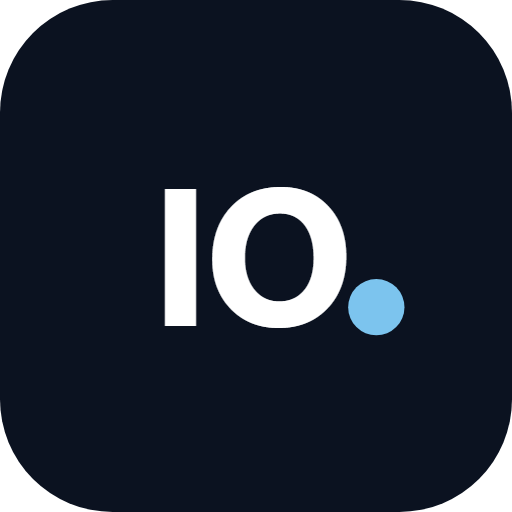
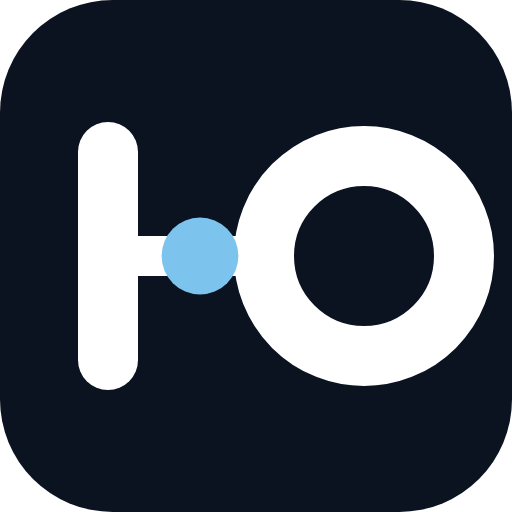
Marca "conector de datos" y revision de interfaz sobre el modo oscuro
- Logo nuevo: barra y anillo arman el monograma IO y leen como dos nodos unidos.
  Aplicado al riel, al ingreso, a los iconos de la PWA y a la portada del manual.
- Bordes y tarjetas con contraste real en oscuro: la profundidad viene de una luz
  en el canto superior, no de la sombra.
- El item activo de la navegacion se distingue: pasa al acento en vez de bg-contraste,
  que quedaba a 1.2 de contraste contra la tarjeta.
- Microcopia: placeholders con elipsis y "responsable" en vez de "Key Account".

Changed region(s): [[0.125, 0.2188, 0.9688, 0.7812]]

diff --git a/presentador/src/components/Shell.tsx b/presentador/src/components/Shell.tsx
@@ -7,6 +7,7 @@ import { nombreCorto, useDemo } from '../state/demo'
 import { useAcademia } from '../state/academia'
 import { useSesion } from '../state/sesion'
 import { Ayuda } from './Ayuda'
+import { Marca } from './Marca'
 import { iniciales, MenuCuenta } from './MenuCuenta'
 import { Sheet } from './Sheet'
 
@@ -48,18 +49,6 @@ const gestionLab: ItemNav[] = [
   { href: '#/asistente', etiqueta: 'Asistente', detalle: 'Preguntale a los datos con IA', Icono: Sparkles, activa: (r) => r.nombre === 'asistente' },
   { href: '#/integraciones', etiqueta: 'API', detalle: 'SAP, Salesforce y webhooks', Icono: Plug, activa: (r) => r.nombre === 'integraciones' },
 ]
-
-function Logo({ size = 30 }: { size?: number }) {
-  return (
-    <svg width={size} height={size} viewBox="0 0 32 32" aria-hidden="true">
-      <rect width="32" height="32" rx="7" fill="#0b1220" />
-      <text x="14.2" y="21.6" textAnchor="middle" fontFamily="var(--font-sans)" fontSize="13.5" fontWeight="700" fill="#fff" letterSpacing="-0.4">
-        IO
-      </text>
-      <circle cx="24.5" cy="20.4" r="2.5" fill="#7cc4ee" />
-    </svg>
-  )
-}
 
 function EstadoConexion() {
   const { online, pendientes } = useDemo()
@@ -165,7 +154,7 @@ export function Shell({ ruta, children }: { ruta: Ruta; children: ReactNode }) {
         className="fixed inset-y-0 left-0 z-40 hidden w-[96px] flex-col items-center border-r border-line bg-surface pt-[calc(14px+env(safe-area-inset-top))] pb-4 md:flex"
       >
         <a href="#/" aria-label="IO-Pharma, inicio" className="press mb-4 shrink-0 rounded-xl p-1.5">
-          <Logo />
+          <Marca size={30} className="text-ink" />
         </a>
         <div className="flex min-h-0 flex-1 flex-col items-center overflow-y-auto">
           {[principales, secundarios].map((grupo, g) => (
@@ -184,7 +173,7 @@ export function Shell({ ruta, children }: { ruta: Ruta; children: ReactNode }) {
                       href={href}
                       aria-current={actual ? 'page' : undefined}
                       className={`press relative flex w-[80px] flex-col items-center gap-1 rounded-xl px-1 py-2 text-center text-[11px] leading-tight font-medium ${
-                        actual ? 'bg-contraste text-white' : 'text-ink-3 hover:bg-sunken hover:text-ink'
+                        actual ? 'bg-accent-soft text-accent' : 'text-ink-3 hover:bg-sunken hover:text-ink'
                       }`}
                     >
                       <Icono size={20} strokeWidth={actual ? 2.2 : 1.8} aria-hidden="true" />
@@ -221,7 +210,7 @@ export function Shell({ ruta, children }: { ruta: Ruta; children: ReactNode }) {
         <div className="material sticky top-0 z-30 border-b border-line/70 pt-[env(safe-area-inset-top)]">
           <div className="mx-auto flex h-16 max-w-[1440px] items-center gap-3 px-4 sm:px-6 lg:px-8">
             <a href="#/" className="press -ml-1.5 flex size-11 items-center justify-center rounded-xl md:hidden" aria-label="IO-Pharma, inicio">
-              <Logo />
+              <Marca size={28} className="text-ink" />
             </a>
             <div className="hidden min-w-0 items-center gap-2 text-[13px] text-ink-3 md:flex">
               <Stethoscope size={16} aria-hidden="true" />
@@ -279,7 +268,7 @@ export function Shell({ ruta, children }: { ruta: Ruta; children: ReactNode }) {
                   aria-current={actual ? 'page' : undefined}
                   className={`press flex min-h-16 flex-col items-center justify-center gap-1 text-[11px] font-medium ${actual ? 'text-ink' : 'text-ink-3'}`}
                 >
-                  <span className={`relative flex h-7 w-12 items-center justify-center rounded-full ${actual ? 'bg-contraste text-white' : ''}`}>
+                  <span className={`relative flex h-7 w-12 items-center justify-center rounded-full ${actual ? 'bg-accent-soft text-accent' : ''}`}>
                     <Icono size={19} strokeWidth={actual ? 2.2 : 1.8} aria-hidden="true" />
                   </span>
                   {etiqueta}
@@ -296,7 +285,7 @@ export function Shell({ ruta, children }: { ruta: Ruta; children: ReactNode }) {
               aria-current={masActivo ? 'page' : undefined}
               className={`press flex min-h-16 w-full cursor-pointer flex-col items-center justify-center gap-1 text-[11px] font-medium ${masActivo ? 'text-ink' : 'text-ink-3'}`}
             >
-              <span className={`relative flex h-7 w-12 items-center justify-center rounded-full ${masActivo ? 'bg-contraste text-white' : ''}`}>
+              <span className={`relative flex h-7 w-12 items-center justify-center rounded-full ${masActivo ? 'bg-accent-soft text-accent' : ''}`}>
                 <Ellipsis size={19} strokeWidth={masActivo ? 2.2 : 1.8} aria-hidden="true" />
                 <Insignia cantidad={cursosPendientes} className="-top-0.5 right-1" />
               </span>

diff --git a/presentador/src/screens/Login.tsx b/presentador/src/screens/Login.tsx
@@ -5,20 +5,9 @@ import { MonogramaProducto, Segmentado } from '../components/ui'
 import { apm, visitasDelDia } from '../data/agenda'
 import { productos } from '../data/productos'
 import { fechaLarga } from '../lib/formato'
+import { Marca } from '../components/Marca'
 import { useDemo } from '../state/demo'
 import { CUENTAS, useSesion, type Rol } from '../state/sesion'
-
-function Logo({ size = 40 }: { size?: number }) {
-  return (
-    <svg width={size} height={size} viewBox="0 0 32 32" aria-hidden="true">
-      <rect width="32" height="32" rx="9" fill="#0b1220" />
-      <text x="14.2" y="21.6" textAnchor="middle" fontFamily="var(--font-sans)" fontSize="13.5" fontWeight="700" fill="#fff" letterSpacing="-0.4">
-        IO
-      </text>
-      <circle cx="24.5" cy="20.4" r="2.5" fill="#7cc4ee" />
-    </svg>
-  )
-}
 
 /** Panel derecho: anticipa el día de trabajo que se abre al ingresar */
 function VistaPreviaDia() {
@@ -129,7 +118,7 @@ export function Login() {
     <div className="grid min-h-dvh bg-surface lg:grid-cols-[minmax(0,1fr)_minmax(0,1.05fr)]">
       <main className="flex min-h-dvh flex-col px-6 pt-[calc(24px+env(safe-area-inset-top))] pb-[calc(24px+env(safe-area-inset-bottom))] sm:px-10">
         <div className="flex items-center gap-3">
-          <Logo size={36} />
+          <Marca size={40} className="text-ink" />
           <div className="leading-tight">
             <div className="text-[16px] font-semibold text-ink">IO-Pharma</div>
             <div className="text-[12px] text-ink-3">e-detailing y CRM para laboratorios</div>

diff --git a/presentador/src/components/Marca.tsx b/presentador/src/components/Marca.tsx
@@ -1,0 +1,33 @@
+/*
+ * Marca IO-Pharma — "conector de datos".
+ * La barra y el anillo arman el monograma IO y, al mismo tiempo, leen como dos nodos
+ * unidos por un vínculo. El punto celeste es el dato que viaja entre los dos.
+ * Un solo trazo, sin degradados: se sostiene a 16 px y en blanco y negro.
+ */
+export function Marca({ size = 30, className }: { size?: number; className?: string }) {
+  return (
+    <svg width={size} height={size} viewBox="0 0 64 64" aria-hidden="true" className={className}>
+      <g fill="none" stroke="currentColor" strokeLinecap="round">
+        <path d="M13.5 19 L13.5 45" strokeWidth="7.5" />
+        <path d="M13.5 32 L33 32" strokeWidth="5" />
+        <circle cx="45.5" cy="32" r="12.5" strokeWidth="7.5" />
+      </g>
+      <circle cx="25" cy="32" r="4.8" fill="var(--color-accent)" />
+    </svg>
+  )
+}
+
+/** La misma marca dentro de su baldosa, para donde haga falta un ícono cerrado */
+export function MarcaBaldosa({ size = 36 }: { size?: number }) {
+  return (
+    <svg width={size} height={size} viewBox="0 0 64 64" aria-hidden="true">
+      <rect width="64" height="64" rx="14" fill="#0b1220" />
+      <g fill="none" stroke="#ffffff" strokeLinecap="round">
+        <path d="M13.5 19 L13.5 45" strokeWidth="7.5" />
+        <path d="M13.5 32 L33 32" strokeWidth="5" />
+        <circle cx="45.5" cy="32" r="12.5" strokeWidth="7.5" />
+      </g>
+      <circle cx="25" cy="32" r="4.8" fill="#7cc4ee" />
+    </svg>
+  )
+}

diff --git a/presentador/src/index.css b/presentador/src/index.css
@@ -130,10 +130,11 @@
   --color-ink-2: #b4c1d2;
   --color-ink-3: #8593a6;
   --color-paper: #0a0f16;
-  --color-surface: #121a24;
-  --color-sunken: #1a2432;
-  --color-line: #223043;
-  --color-line-2: #31425a;
+  --color-surface: #151e2a;
+  --color-sunken: #1e2937;
+  /* en oscuro un borde de 1.3 de contraste no se ve: los bordes suben con el fondo */
+  --color-line: #2c3d52;
+  --color-line-2: #3d5069;
 
   --color-contraste: #1d2938;
   --color-contraste-alto: #27364a;
@@ -310,7 +311,16 @@
     -webkit-backdrop-filter: blur(18px) saturate(170%);
   }
   [data-tema='oscuro'] .material {
-    background: rgb(18 26 36 / 0.82);
+    background: rgb(21 30 42 / 0.82);
+  }
+
+  /* en oscuro la profundidad no viene de la sombra sino de una luz en el canto superior */
+  [data-tema='oscuro'] .card,
+  [data-tema='oscuro'] .card-elevada {
+    box-shadow: inset 0 1px 0 rgb(255 255 255 / 0.05), var(--shadow-card);
+  }
+  [data-tema='oscuro'] .card-elevada {
+    box-shadow: inset 0 1px 0 rgb(255 255 255 / 0.07), var(--shadow-raised);
   }
 
   .material-oscuro {

diff --git a/presentador/src/screens/lab/Cuenta.tsx b/presentador/src/screens/lab/Cuenta.tsx
@@ -124,7 +124,7 @@ export function Cuenta({ cuentaId }: { cuentaId: string }) {
               name="titulo-interaccion"
               value={titulo}
               onChange={(e) => setTitulo(e.target.value)}
-              placeholder="Ej.: reunión por la renovación del acuerdo"
+              placeholder="Ej.: reunión por la renovación del acuerdo…"
               className="field mt-3"
             />
             <label className="sr-only" htmlFor="detalle-interaccion">
@@ -136,7 +136,7 @@ export function Cuenta({ cuentaId }: { cuentaId: string }) {
               rows={3}
               value={detalle}
               onChange={(e) => setDetalle(e.target.value)}
-              placeholder="Qué se habló, qué quedó pendiente y con quién."
+              placeholder="Qué se habló, qué quedó pendiente y con quién…"
               className="field mt-2 min-h-20 py-2.5 leading-relaxed"
             />
             <button type="button" className="btn-primary mt-3" onClick={registrar} disabled={!titulo.trim()}>

diff --git a/presentador/src/screens/lab/Cuentas.tsx b/presentador/src/screens/lab/Cuentas.tsx
@@ -34,7 +34,7 @@ export function Cuentas() {
       <EncabezadoPantalla
         eyebrow="Portal del laboratorio"
         titulo="Cuentas institucionales"
-        descripcion="Droguerías, cadenas, instituciones y financiadores: dónde se factura de verdad. Todo el historial queda en la cuenta, no en la cabeza del Key Account."
+        descripcion="Droguerías, cadenas, instituciones y financiadores: dónde se factura de verdad. Todo el historial queda en la cuenta, no en la cabeza del responsable."
       />
 
       <dl className="mb-6 grid grid-cols-2 gap-3 lg:grid-cols-4">

diff --git a/manual/generar_manual.py b/manual/generar_manual.py
@@ -235,15 +235,23 @@ def aviso(titulo, texto, color=ACENTO, fondo=ACENTO_SUAVE):
 # ---------------------------------------------------------------- portada y páginas
 
 def logo(c, x, y, lado=16 * mm, sobre_oscuro=False):
-    """Monograma IO con su punto: la marca en su versión más simple."""
+    """Conector de datos: la barra y el anillo arman el monograma IO."""
+    u = lado / 64  # la marca se dibuja en una grilla de 64
     c.saveState()
     c.setFillColor(colors.white if sobre_oscuro else TINTA)
-    c.roundRect(x, y, lado, lado, lado * 0.26, stroke=0, fill=1)
-    c.setFillColor(TINTA if sobre_oscuro else colors.white)
-    c.setFont(SANS_NEGRITA, lado * 0.40)
-    c.drawCentredString(x + lado * 0.45, y + lado * 0.34, 'IO')
+    c.roundRect(x, y, lado, lado, lado * 0.24, stroke=0, fill=1)
+    trazo = TINTA if sobre_oscuro else colors.white
+    c.setStrokeColor(trazo)
+    c.setLineCap(1)
+    # la grilla del SVG crece hacia abajo; en el PDF, hacia arriba
+    c.setLineWidth(7.5 * u)
+    c.line(x + 13.5 * u, y + (64 - 19) * u, x + 13.5 * u, y + (64 - 45) * u)
+    c.setLineWidth(5 * u)
+    c.line(x + 13.5 * u, y + 32 * u, x + 33 * u, y + 32 * u)
+    c.setLineWidth(7.5 * u)
+    c.circle(x + 45.5 * u, y + 32 * u, 12.5 * u, stroke=1, fill=0)
     c.setFillColor(CELESTE)
-    c.circle(x + lado * 0.79, y + lado * 0.27, lado * 0.07, stroke=0, fill=1)
+    c.circle(x + 25 * u, y + 32 * u, 4.8 * u, stroke=0, fill=1)
     c.restoreState()
 
 
@@ -484,11 +492,16 @@ def construir():
         'En iPhone, una aplicación web que no está instalada pierde sus datos guardados a los pocos días de no usarse. '
         'Instalada, no: queda lista para trabajar sin señal.', TINTA3, FONDO)]
 
-    f += [P('Modo claro y oscuro', 'h2')]
+    f += [P('Por qué la app es oscura', 'h2')]
     f += [P(
-        'Desde tu cuenta se elige entre claro, oscuro o automático, que sigue la configuración del dispositivo. '
-        'Las presentaciones se ven siempre en claro, porque son el material que mira el médico.')]
-    f += [figura('apm-hoy-oscuro', 'La misma pantalla en modo oscuro, pensada para un consultorio con poca luz.', 160)]
+        'La interfaz trabaja siempre en modo oscuro. No es una preferencia estética: la visita ocurre en consultorios, '
+        'pasillos y salas de espera, muchas veces con poca luz, y una pantalla clara encandila y delata desde lejos lo que '
+        'se está mirando. El modo oscuro además consume menos batería en las pantallas OLED de tablets y celulares, que es '
+        'la diferencia entre llegar o no al final de la jornada.')]
+    f += [Spacer(1, 4), aviso(
+        'La presentación es la excepción',
+        'Todo lo que ve el médico —diapositivas, estudios, fichas técnicas— se muestra siempre en claro, con la marca del '
+        'producto. La app se oscurece; el material científico, no.', TINTA3, FONDO)]
 
     f += [P('La ayuda, siempre a mano', 'h2')]
     f += [P(

diff --git a/manual/iconos.py b/manual/iconos.py
@@ -19,17 +19,22 @@ TINTA = '#0b1220'
 CELESTE = '#7cc4ee'
 
 
-def svg(lado=512, escala=1.0):
-    """Monograma IO: cuadrado redondeado con las iniciales y el punto de la marca."""
-    c = lado / 2
-    r = lado * 0.22 * escala
-    fuente = lado * 0.38 * escala
-    return f'''<svg xmlns="http://www.w3.org/2000/svg" viewBox="0 0 {lado} {lado}" width="{lado}" height="{lado}">
-  <rect width="{lado}" height="{lado}" rx="{r}" fill="{TINTA}"/>
-  <text x="{c - lado * 0.015 * escala}" y="{c + fuente * 0.36}" text-anchor="middle"
-        font-family="Segoe UI, Helvetica, Arial, sans-serif" font-weight="700"
-        font-size="{fuente}" fill="#ffffff" letter-spacing="{-fuente * 0.03}">IO</text>
-  <circle cx="{c + lado * 0.235 * escala}" cy="{c + lado * 0.1 * escala}" r="{lado * 0.055 * escala}" fill="{CELESTE}"/>
+def marca(color='#ffffff', acento=CELESTE, escala=1.0):
+    """Conector de datos: barra y anillo arman el monograma IO y leen como dos nodos unidos."""
+    e = escala
+    return f'''
+  <g transform="translate({32 - 32 * e} {32 - 32 * e}) scale({e})" fill="none" stroke="{color}" stroke-linecap="round">
+    <path d="M13.5 19 L13.5 45" stroke-width="7.5"/>
+    <path d="M13.5 32 L33 32" stroke-width="5"/>
+    <circle cx="45.5" cy="32" r="12.5" stroke-width="7.5"/>
+  </g>
+  <circle cx="{32 - 32 * e + 25 * e}" cy="32" r="{4.8 * e}" fill="{acento}"/>'''
+
+
+def svg(lado=512, escala=1.0, redondeo=0.22):
+    """Baldosa con la marca; escala < 1 deja el margen que pide un icono recortable."""
+    return f'''<svg xmlns="http://www.w3.org/2000/svg" viewBox="0 0 64 64" width="{lado}" height="{lado}">
+  <rect width="64" height="64" rx="{64 * redondeo}" fill="{TINTA}"/>{marca(escala=escala)}
 </svg>'''
 
 
@@ -58,10 +63,10 @@ def main():
         navegador = p.chromium.launch()
         page = navegador.new_page(device_scale_factor=1)
         png_desde_svg(page, svg(512), PUBLICO / 'icon-512.png', 512)
-        png_desde_svg(page, svg(512), PUBLICO / 'icon-192.png', 192)
-        png_desde_svg(page, svg(512), PUBLICO / 'apple-touch-icon.png', 180, fondo=TINTA)
+        png_desde_svg(page, svg(192), PUBLICO / 'icon-192.png', 192)
+        png_desde_svg(page, svg(180), PUBLICO / 'apple-touch-icon.png', 180, fondo=TINTA)
         # maskable: el contenido entra en el 60 % central para que ningún recorte lo corte
-        png_desde_svg(page, svg(512, 0.62).replace(f'rx="{512 * 0.22 * 0.62}"', 'rx="0"'), PUBLICO / 'icon-maskable-512.png', 512, fondo=TINTA)
+        png_desde_svg(page, svg(512, 0.66, redondeo=0), PUBLICO / 'icon-maskable-512.png', 512, fondo=TINTA)
         navegador.close()
 
     print('Capturas del instalador:')

diff --git a/manual/capturas.py b/manual/capturas.py
@@ -160,15 +160,6 @@ def capturar(page, movil):
     esperar(page, 1500)
     guardar(page, 'lab-asistente')
 
-    # ---------------- la app en modo oscuro
-    sesion(page, SESION_APM)
-    page.evaluate("localStorage.setItem('io-pharma-tema', 'oscuro'); location.hash = '#/'")
-    page.reload(wait_until='networkidle')
-    esperar(page, 1800)
-    page.add_style_tag(content=SIN_MOVIMIENTO)
-    guardar(page, 'apm-hoy-oscuro')
-    page.evaluate("localStorage.setItem('io-pharma-tema', 'claro')")
-
     # ---------------- la misma app en celular
     movil.goto(BASE, wait_until='networkidle')
     sesion(movil, SESION_APM)
